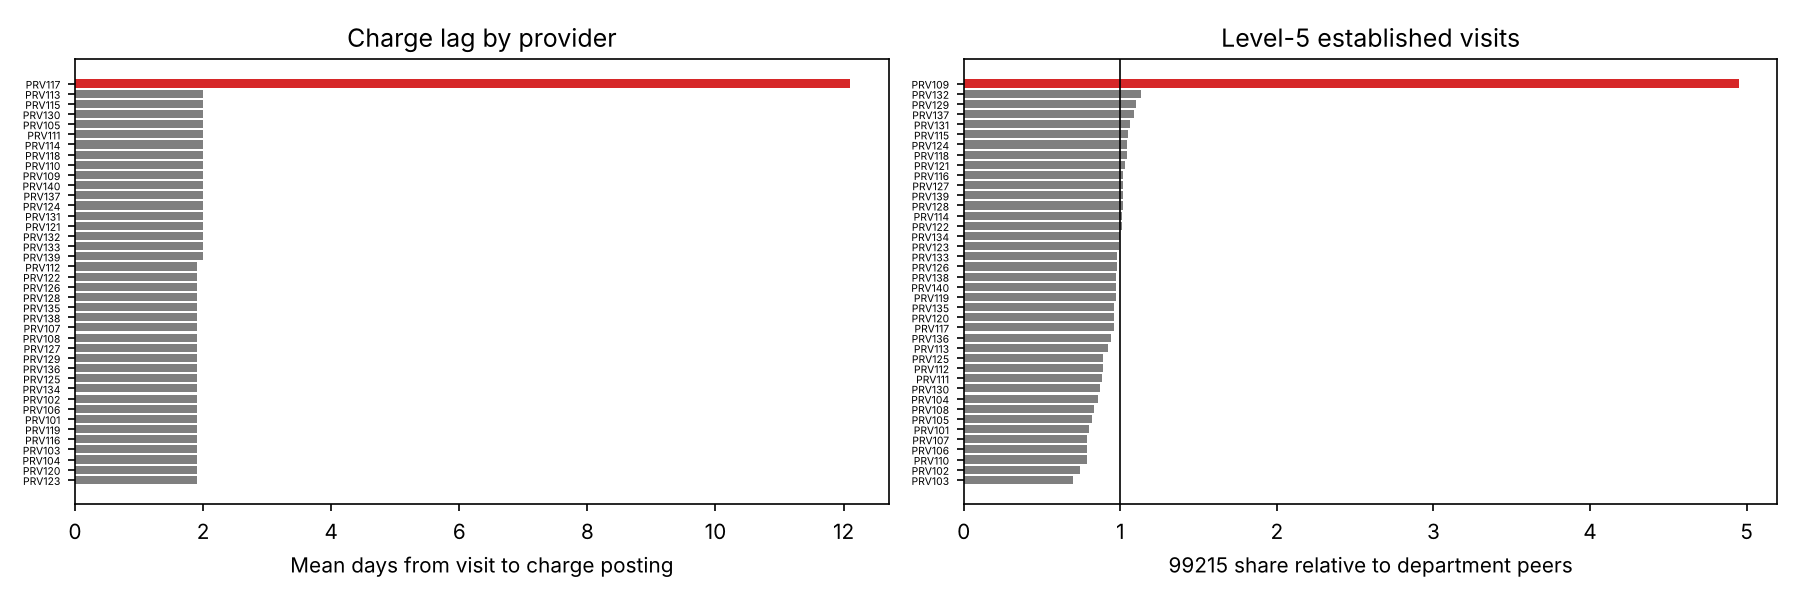
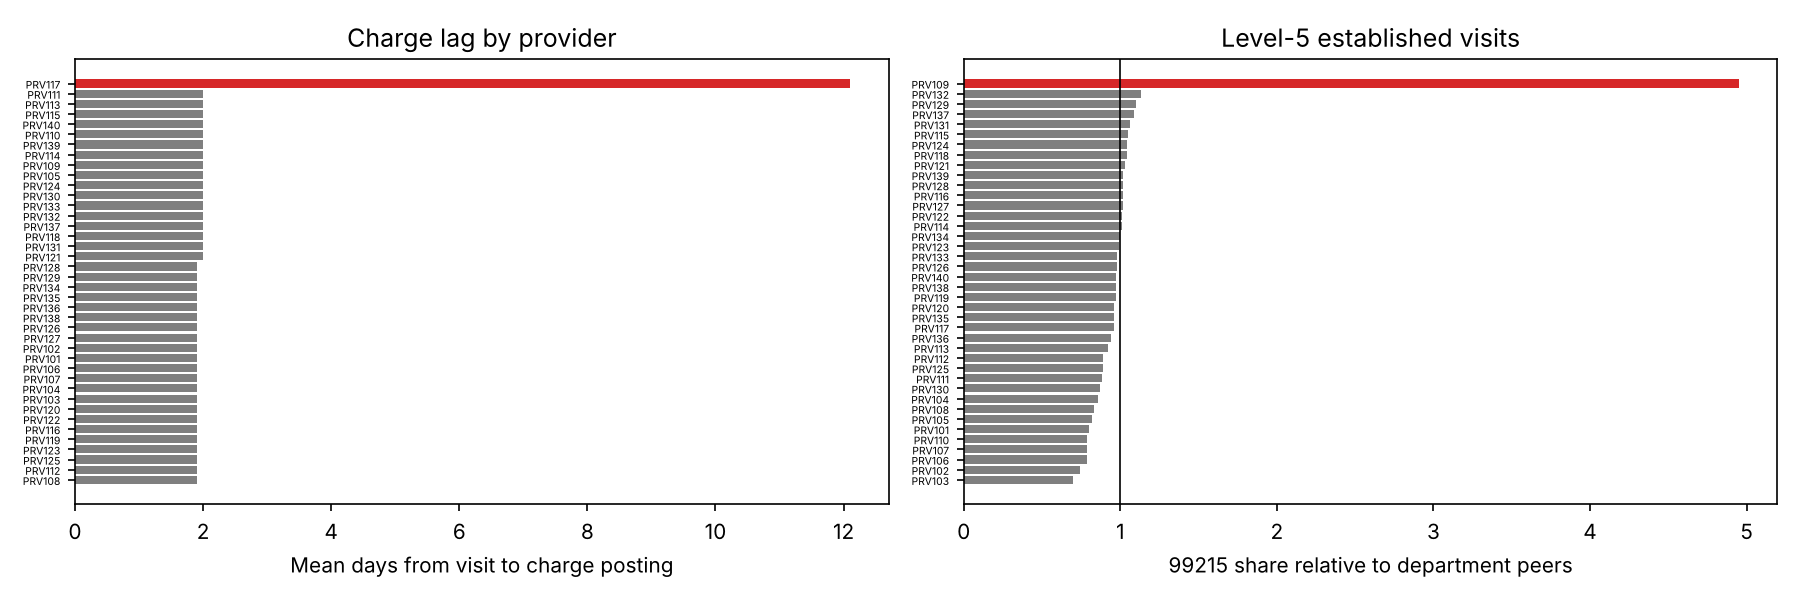
Sort the charge lag table deterministically

diff --git a/src/analysis.py b/src/analysis.py
@@ -139,7 +139,7 @@ def no_show_model(a):
 
 
 def provider_flags(con):
-    lag = con.sql("select * from v_charge_lag order by mean_lag_days desc").df()
+    lag = con.sql("select * from v_charge_lag order by mean_lag_days desc, provider_key").df()
     em = con.sql("""
         select provider_key, department_key,
                count(*) filter (where cpt_code = '99215') as level5, count(*) as est_visits
